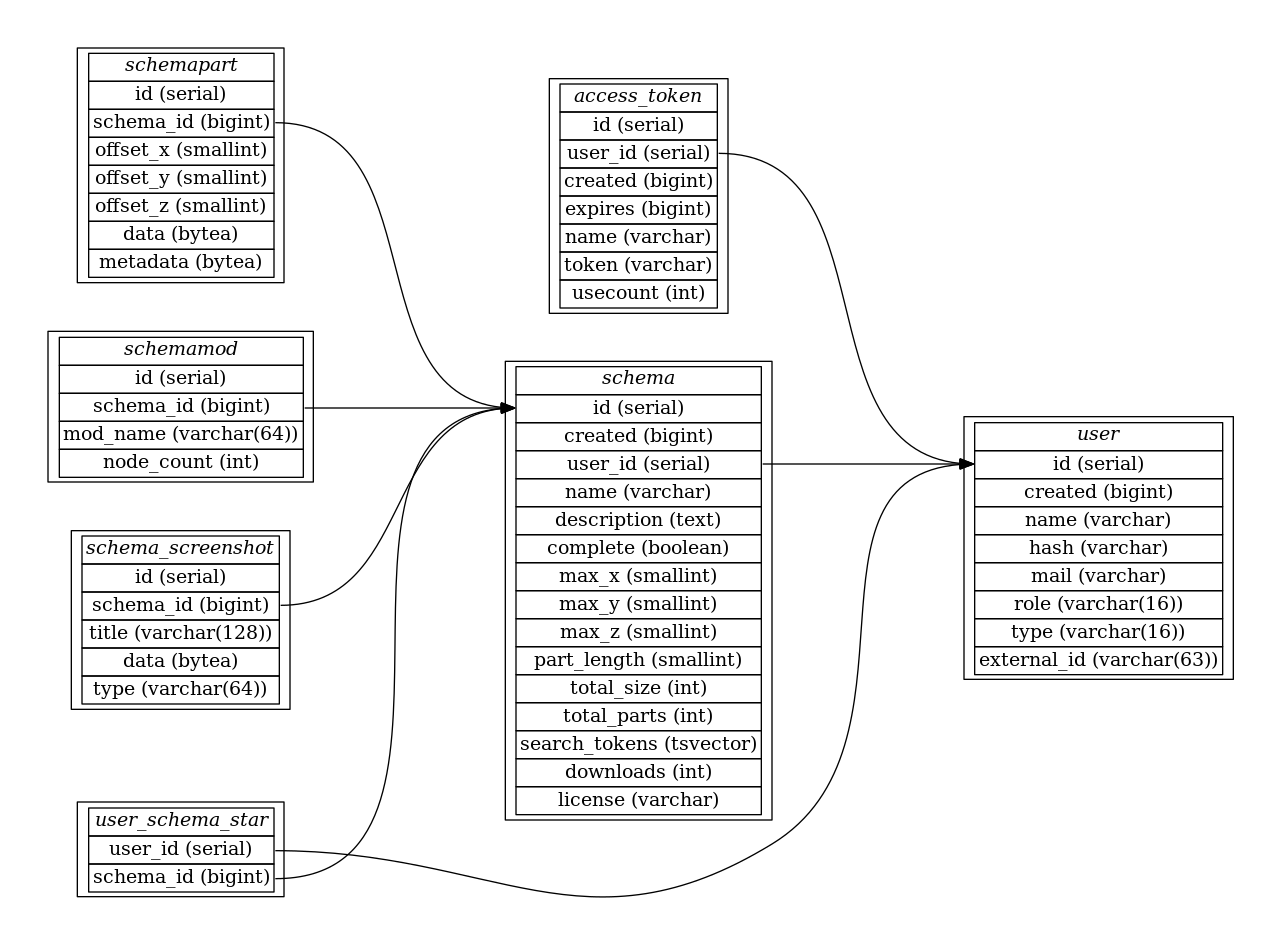
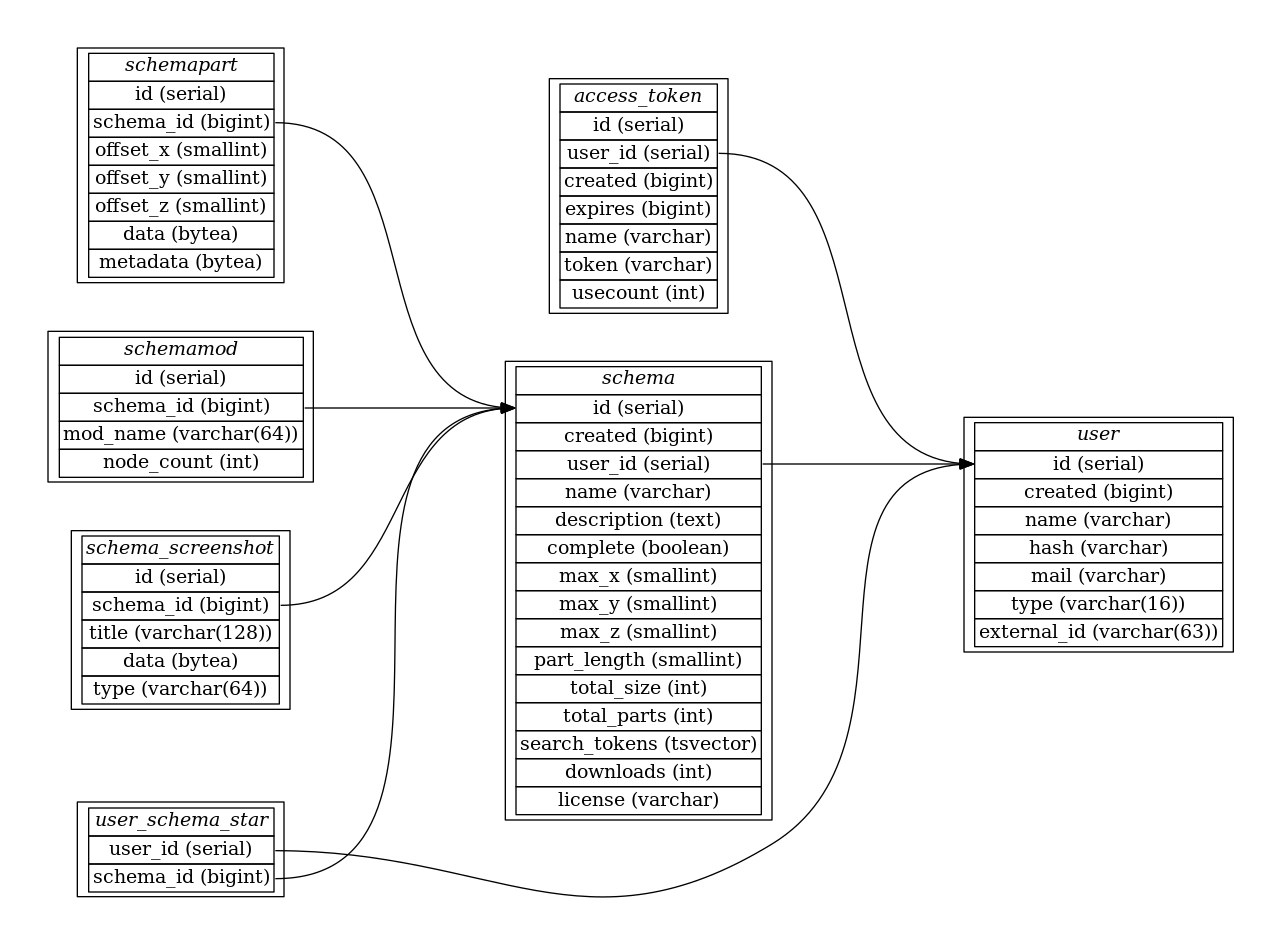
permission and database overhaul

Changed region(s): [[0.7494, 0.6138, 0.968, 0.7365]]

diff --git a/src/api/access_token.js b/src/api/access_token.js
@@ -6,10 +6,11 @@ const logger = require("../logger");
 const bodyParser = require('body-parser');
 const jsonParser = bodyParser.json({limit: '20mb'});
 
+const { MANAGEMENT } = require("../permissions");
 const tokenmiddleware = require("../middleware/token");
-const tokencheck = tokenmiddleware();
+const permissioncheck = require("../middleware/permissioncheck");
 
-app.get('/api/access_token', tokencheck, async function(req, res){
+app.get('/api/access_token', tokenmiddleware, permissioncheck(MANAGEMENT), async function(req, res){
 	logger.debug("GET /api/access_token");
 
 	const user_id = req.claims.user_id;
@@ -17,7 +18,7 @@ app.get('/api/access_token', tokencheck, async function(req, res){
 	res.json(tokens);
 });
 
-app.delete('/api/access_token/:id', tokencheck, async function(req, res){
+app.delete('/api/access_token/:id', tokenmiddleware, permissioncheck(MANAGEMENT), async function(req, res){
 	logger.debug("DELETE /api/access_token/:id", req.params.id);
 
 	const user_id = req.claims.user_id;
@@ -25,7 +26,7 @@ app.delete('/api/access_token/:id', tokencheck, async function(req, res){
 	res.end();
 });
 
-app.post('/api/access_token', tokencheck, jsonParser, async function(req, res){
+app.post('/api/access_token', tokenmiddleware, permissioncheck(MANAGEMENT), jsonParser, async function(req, res){
 	logger.debug("POST /api/access_token", req.body);
 
 	if (!req.body.name){
@@ -37,7 +38,7 @@ app.post('/api/access_token', tokencheck, jsonParser, async function(req, res){
 	const created = Date.now();
 	const expires = req.body.expires;
 	const name = req.body.name;
-	const token = Math.random().toString(36).substring(2, 8).toUpperCase(); // 6 chars
+	const token = access_token_dao.generateToken();
 
 	const access_token = await access_token_dao.create(user_id, created, expires, name, token);
 

diff --git a/src/api/user.js b/src/api/user.js
@@ -4,8 +4,10 @@ const jsonParser = bodyParser.json();
 const app = require("../app");
 const user_dao = require("../dao/user");
 const logger = require("../logger");
+
+const { MANAGEMENT } = require("../permissions");
 const tokenmiddleware = require("../middleware/token");
-const tokencheck = tokenmiddleware();
+const permissioncheck = require("../middleware/permissioncheck");
 
 // get all users
 app.get('/api/user', async function(req, res){
@@ -17,7 +19,6 @@ app.get('/api/user', async function(req, res){
 			name: user.name,
 			id: user.id,
 			type: user.type,
-			role: user.role,
 			created: user.created
 		};
 	});
@@ -50,17 +51,12 @@ app.post("/api/validate_username", jsonParser, async function(req, res){
 });
 
 // modify user (only name change allowed)
-app.post("/api/user/:user_id", jsonParser, tokencheck, async function(req, res){
+app.post("/api/user/:user_id", tokenmiddleware, permissioncheck(MANAGEMENT), jsonParser, async function(req, res){
 	logger.debug("POST /api/user", req.params.user_id, req.body);
 
-	if (req.claims.role !== "ADMIN" && req.claims.user_id != +req.params.user_id){
-		// not an admin and not your own user
+	if (req.claims.user_id != +req.params.user_id){
+		// not your own user
 		return res.status(403).json({ message: "change not allowed" });
-	}
-
-	if (req.claims.role === "UPLOAD_ONLY"){
-		// static account, no changes happen here
-		return res.status(403).json({ message: "change not allowed (static account)" });
 	}
 
 	if (!req.body.name){

diff --git a/src/api/schema_star.js b/src/api/schema_star.js
@@ -4,8 +4,10 @@ const logger = require("../logger");
 
 const app = require("../app");
 const userschemastar_dao = require("../dao/userschemastar");
+
+const { MANAGEMENT } = require("../permissions");
 const tokenmiddleware = require("../middleware/token");
-const tokencheck = tokenmiddleware();
+const permissioncheck = require("../middleware/permissioncheck");
 
 app.get('/api/schema/:id/star', jsonParser, function(req, res){
   logger.debug("GET /api/schema/:id/star", req.params.id);
@@ -16,7 +18,7 @@ app.get('/api/schema/:id/star', jsonParser, function(req, res){
 
 });
 
-app.put('/api/schema/:id/star', tokencheck, jsonParser, function(req, res){
+app.put('/api/schema/:id/star', tokenmiddleware, permissioncheck(MANAGEMENT), jsonParser, function(req, res){
   logger.debug("POST /api/schema/:id/star", req.params.id, req.claims.user_id);
 
 	userschemastar_dao.create(req.claims.user_id, req.params.id)
@@ -25,7 +27,7 @@ app.put('/api/schema/:id/star', tokencheck, jsonParser, function(req, res){
 
 });
 
-app.delete('/api/schema/:id/star', tokencheck, jsonParser, function(req, res){
+app.delete('/api/schema/:id/star', tokenmiddleware, permissioncheck(MANAGEMENT), jsonParser, function(req, res){
   logger.debug("DELETE /api/schema/:id/star", req.params.id, req.claims.user_id);
 
 	userschemastar_dao.remove(req.claims.user_id, req.params.id)

diff --git a/src/api/schema_create.js b/src/api/schema_create.js
@@ -6,11 +6,12 @@ const events = require("../events");
 
 const app = require("../app");
 const schema_dao = require("../dao/schema");
-const tokenmiddleware = require("../middleware/token");
-const rolecheck = require("../util/rolecheck");
-const tokencheck = tokenmiddleware(claims => rolecheck.can_upload(claims.role));
 
-app.post('/api/schema', tokencheck, jsonParser, async function(req, res){
+const { UPLOAD } = require("../permissions");
+const tokenmiddleware = require("../middleware/token");
+const permissioncheck = require("../middleware/permissioncheck");
+
+app.post('/api/schema', tokenmiddleware, permissioncheck(UPLOAD), jsonParser, async function(req, res){
 	logger.debug("POST /api/schema", req.body);
 
 	const inserted_data = await schema_dao.create({
@@ -28,7 +29,7 @@ app.post('/api/schema', tokencheck, jsonParser, async function(req, res){
 
 
 
-app.post('/api/schema/:id/complete', tokencheck, jsonParser, async function(req, res){
+app.post('/api/schema/:id/complete', tokenmiddleware, permissioncheck(UPLOAD), jsonParser, async function(req, res){
 	logger.debug("POST /api/schema/id/complete", req.params.id, req.body);
 
 	const schema = await schema_dao.get_by_id(req.params.id);

diff --git a/src/middleware/token.js b/src/middleware/token.js
@@ -1,29 +1,16 @@
 const jwt = require('jsonwebtoken');
 const logger = require("../logger");
 
-module.exports = function(authFn) {
-  return function(req, res, next) {
-    var token = req.headers.authorization;
-    try {
-      const payload = jwt.verify(token, process.env.BLOCKEXCHANGE_KEY);
-      req.claims = payload;
-
-      if (typeof(authFn) == "function"){
-        if (authFn(payload)) {
-          // ok
-          next();
-        } else {
-          // unauthorized
-          res.status(403).end();
-        }
-      } else {
-        // no authorization check
-        next();
-      }
-    } catch (e) {
-      // not authenticated
-			logger.error("token-middleware: unauthenticated", e);
-      res.status(401).end();
-    }
-  };
+module.exports = function(req, res, next) {
+	var token = req.headers.authorization;
+	try {
+		const payload = jwt.verify(token, process.env.BLOCKEXCHANGE_KEY);
+		req.claims = payload;
+		// token valid
+		next();
+	} catch (e) {
+		// not authenticated
+		logger.error("token-middleware: unauthenticated", e);
+		res.status(401).end();
+	}
 };

diff --git a/src/api/token.js b/src/api/token.js
@@ -2,7 +2,9 @@ const bcrypt = require('bcryptjs');
 const bodyParser = require('body-parser');
 const jsonParser = bodyParser.json();
 
+const { MANAGEMENT, UPLOAD, OVERWRITE } = require("../permissions");
 const createjwt = require("../util/createjwt");
+
 const logger = require("../logger");
 const app = require("../app");
 
@@ -29,9 +31,7 @@ app.post('/api/token', jsonParser, async function(req, res){
 				message: "Invalid password"
 			});
 		}
-		const token = createjwt(user, {
-			audience: "management"
-		});
+		const token = createjwt(user, [UPLOAD, OVERWRITE, MANAGEMENT]);
 		res.send(token);
 
 	} else if (req.body.access_token){
@@ -51,8 +51,8 @@ app.post('/api/token', jsonParser, async function(req, res){
 		}
 
 		// valid token and expiration time
-		const token = createjwt(user, {
-			audience: "minetest",
+		// only give out needed permissions to ingame user
+		const token = createjwt(user, [UPLOAD, OVERWRITE], {
 			expiresIn: parseInt((access_token.expires - Date.now()) / 1000)
 		});
 		res.send(token);

diff --git a/src/api/oauth_callback_discord.js b/src/api/oauth_callback_discord.js
@@ -4,6 +4,9 @@ const qs = require('querystring');
 const app = require("../app");
 const logger = require("../logger");
 const user_dao = require("../dao/user");
+const setupuser = require("../util/setupuser");
+
+const { MANAGEMENT, UPLOAD, OVERWRITE } = require("../permissions");
 const createjwt = require("../util/createjwt");
 
 app.get('/api/oauth_callback/discord', function(req, res){
@@ -56,19 +59,17 @@ app.get('/api/oauth_callback/discord', function(req, res){
 				// create new user
 				return user_dao.create({
 					name: user_info.username,
-					role: "MEMBER",
 					type: "DISCORD",
 					hash: "", // no local password
 					mail: user_info.email,
 					external_id: user_info.id
-				});
+				})
+				.then(setupuser);
 			}
 		});
   })
 	.then(user => {
-		const token = createjwt(user, {
-			audience: "management"
-		});
+		const token = createjwt(user, [UPLOAD, OVERWRITE, MANAGEMENT]);
 		res.redirect(process.env.BASE_URL + "/#/oauth/" + token);
 	})
 	.catch(e => {

diff --git a/src/api/oauth_callback_mesehub.js b/src/api/oauth_callback_mesehub.js
@@ -3,6 +3,9 @@ const axios = require('axios');
 const app = require("../app");
 const logger = require("../logger");
 const user_dao = require("../dao/user");
+const setupuser = require("../util/setupuser");
+
+const { MANAGEMENT, UPLOAD, OVERWRITE } = require("../permissions");
 const createjwt = require("../util/createjwt");
 
 app.get('/api/oauth_callback/mesehub', function(req, res){
@@ -54,18 +57,16 @@ app.get('/api/oauth_callback/mesehub', function(req, res){
  		 // create new user
  		 return user_dao.create({
  			 name: user_info.login,
- 			 role: "MEMBER",
  			 type: "MESEHUB",
  			 hash: "", // no local password
  			 mail: user_info.email,
  			 external_id: user_info.id
- 		 });
+ 		 })
+		 .then(setupuser);
  	 }
   })
   .then(user => {
-		const token = createjwt(user, {
-			audience: "management"
-		});
+		const token = createjwt(user, [UPLOAD, OVERWRITE, MANAGEMENT]);
  	 res.redirect(process.env.BASE_URL + "/#/oauth/" + token);
   })
   .catch(e => {

diff --git a/src/api/oauth_callback_github.js b/src/api/oauth_callback_github.js
@@ -3,6 +3,9 @@ const axios = require('axios');
 const app = require("../app");
 const logger = require("../logger");
 const user_dao = require("../dao/user");
+const setupuser = require("../util/setupuser");
+
+const { MANAGEMENT, UPLOAD, OVERWRITE } = require("../permissions");
 const createjwt = require("../util/createjwt");
 
 app.get('/api/oauth_callback/github', function(req, res){
@@ -51,18 +54,16 @@ app.get('/api/oauth_callback/github', function(req, res){
 			// create new user
 			return user_dao.create({
 				name: user_info.login,
-				role: "MEMBER",
 				type: "GITHUB",
 				hash: "", // no local password
 				mail: user_info.email,
 				external_id: user_info.id
-			});
+			})
+			.then(setupuser);
 		}
 	})
 	.then(user => {
-		const token = createjwt(user, {
-			audience: "management"
-		});
+		const token = createjwt(user, [UPLOAD, OVERWRITE, MANAGEMENT]);
 		res.redirect(process.env.BASE_URL + "/#/oauth/" + token);
 	})
   .catch(e => {

diff --git a/src/api/schemamods.js b/src/api/schemamods.js
@@ -6,10 +6,9 @@ const app = require("../app");
 const schemamod_dao = require("../dao/schemamod");
 const schema_dao = require("../dao/schema");
 
+const { UPLOAD } = require("../permissions");
 const tokenmiddleware = require("../middleware/token");
-const rolecheck = require("../util/rolecheck");
-const tokencheck = tokenmiddleware(claims => rolecheck.can_upload(claims.role));
-
+const permissioncheck = require("../middleware/permissioncheck");
 
 app.get('/api/schema/:id/mods', function(req, res){
   logger.debug("GET /api/schema/:id/mods", req.params.id);
@@ -30,7 +29,7 @@ app.get('/api/schema/:id/mods', function(req, res){
 });
 
 
-app.post('/api/schema/:id/mods', tokencheck, jsonParser, function(req, res){
+app.post('/api/schema/:id/mods', tokenmiddleware, permissioncheck(UPLOAD), jsonParser, function(req, res){
   logger.debug("POST /api/schema/:id/mods", req.params.id, req.body);
 
   return schema_dao.get_by_id(req.params.id)

diff --git a/public/js/components/user/AccessToken.js b/public/js/components/user/AccessToken.js
@@ -21,7 +21,7 @@ const CreateForm = {
 		<input type="text"
 			class="form-control"
 			v-model="name"
-			placeholder="Token name"/>
+			placeholder="Token name (usually the name of the server you are using it on)"/>
 		<input type="text"
 			class="form-control"
 			v-model="expires"
@@ -43,7 +43,7 @@ const List = {
 	props: ["list"],
 	data: function() {
 		return {
-			username: store.claims.username
+			store: store
 		};
 	},
 	methods: {
@@ -69,7 +69,7 @@ const List = {
 				<td>{{ token.name }}</td>
 				<td>{{ new Date(+token.created).toLocaleString() }}</td>
 				<td>{{ new Date(+token.expires).toLocaleString() }}</td>
-				<td><pre>/bx_login {{username}} {{ token.token }}</pre></td>
+				<td><pre>/bx_login {{store.claims.username}} {{ token.token }}</pre></td>
 				<td>{{ token.usecount }}</td>
 				<td>
 					<button class="btn btn-sm btn-danger" v-on:click="remove(token.id)">

diff --git a/src/api/schemapart.js b/src/api/schemapart.js
@@ -7,11 +7,11 @@ const schemapart_dao = require("../dao/schemapart");
 const schema_dao = require("../dao/schema");
 const serializer = require("../util/serializer");
 
+const { UPLOAD } = require("../permissions");
 const tokenmiddleware = require("../middleware/token");
-const rolecheck = require("../util/rolecheck");
-const tokencheck = tokenmiddleware(claims => rolecheck.can_upload(claims.role));
+const permissioncheck = require("../middleware/permissioncheck");
 
-app.post('/api/schemapart', tokencheck, jsonParser, async function(req, res){
+app.post('/api/schemapart', tokenmiddleware, permissioncheck(UPLOAD), jsonParser, async function(req, res){
 	logger.debug("POST /api/schemapart", req.body.schema_id, req.body.offset_x, req.body.offset_y, req.body.offset_z);
 
 	const schema = await schema_dao.get_by_id(req.body.schema_id);
